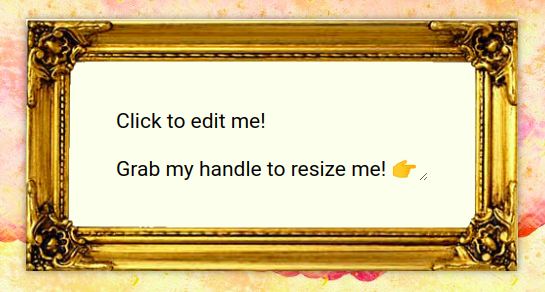
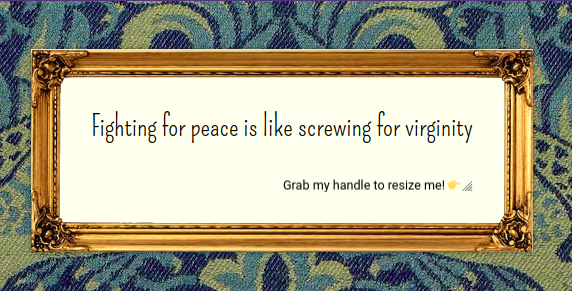
Refactor framed content

diff --git a/framed-content/style.css b/framed-content/style.css
@@ -1,3 +1,5 @@
+@import url("https://fonts.googleapis.com/css2?family=Pompiere&display=swap");
+
 .framed {
   border-image-source: url("img/frame.png");
   border-image-slice: 93 92 87 92;
@@ -7,7 +9,11 @@
   border-width: 60px;
 
   background-color: #ffe;
-  margin: 0;
+  margin-block-start: 2rem;
+  padding: 0.5rem;
+
+  display: grid;
+  row-gap: 2rem;
 
   resize: both;
   overflow: auto;
@@ -15,22 +21,8 @@
   box-shadow: 0 0 4px 0 rgba(0, 0, 0, 0.3), 0 0 6px 0 rgba(0, 0, 0, 0.18);
 }
 
-body {
-  background-color: biege;
-  background-image: url(img/background.jpg);
-  background-size: cover;
-
-  display: grid;
-  max-width: 1000px;
-  place-items: center;
-
-  font-family: "Roboto", "Lucida Sans Regular", "Lucida Grande",
-    "Lucida Sans Unicode", Geneva, Verdana, sans-serif;
-  margin: 1rem auto;
-}
-
-p:nth-of-type(2) {
-  font-weight: bold;
+blockquote {
+  margin: 0;
 }
 
 img {
@@ -44,8 +36,27 @@ img {
   }
 }
 
-span {
-  display: inline-block;
-  font-size: 1.5em;
+.framed div {
+  font-size: 0.45em;
+  font-family: "Roboto", "Lucida Sans Regular", "Lucida Grande",
+    "Lucida Sans Unicode", Geneva, Verdana, sans-serif;
+  justify-self: end;
+  padding-inline-end: 0.75rem;
+
   animation: 0.5s linear 0s infinite alternate pointing;
+}
+
+body {
+  background-color: biege;
+  background-image: url(img/background.jpg);
+  background-size: cover;
+
+  display: grid;
+  max-width: 1000px;
+  place-items: center;
+
+  font-family: "Pompiere", cursive;
+  font-size: 1.75rem;
+
+  margin: 1rem auto;
 }

diff --git a/framed-content/index.html b/framed-content/index.html
@@ -8,8 +8,11 @@
     <link rel="stylesheet" href="style.css" />
   </head>
   <body>
-    <p class="framed" contenteditable="true">
-      Click to edit me!<br /><br />Grab my handle to resize me! 👉 &nbsp;
-    </p>
+    <div class="framed">
+      <blockquote contenteditable="true">
+        Fighting for peace is like screwing for virginity
+      </blockquote>
+      <div>Grab my handle to resize me! 👉</div>
+    </div>
   </body>
 </html>

diff --git a/index.html b/index.html
@@ -426,13 +426,11 @@
     <img
       src="framed-content/img/screenshot.png"
       alt="screenshot of content with a picture as border image"
-      width="545"
-      height="292"
       loading="lazy"
     />
     <p>
       Check out the
-      <a href="http://localhost:3000/framed-content">demo</a>.
+      <a href="http://localhost:3000/framed-content/">demo</a>.
     </p>
   </body>
 </html>

diff --git a/readme.md b/readme.md
@@ -300,8 +300,8 @@ I wanted to see if you can have content with a picture frame as a border. The bo
 
 I used the `border-image` family of properties. I use `border-image-repeat: repeat;` to handle when the width of the content is greater than the border image width. This degrades the image fidelity but in this case, it looks fine.
 
-<img src="framed-content/img/screenshot.png" alt="screenshot of content with a picture as border image" width="656" height="414" loading="lazy"/>
+<img src="framed-content/img/screenshot.png" alt="screenshot of content with a picture as border image" width="654" height="275" loading="lazy"/>
 
-You can check out the [codepen](https://codepen.io/robjoeol/full/zYJOGjx).
+You can check out the [codepen](https://codepen.io/robjoeol/full/dygmZJr).
 
 See ["framed-content" folder](/framed-content/) for code.
